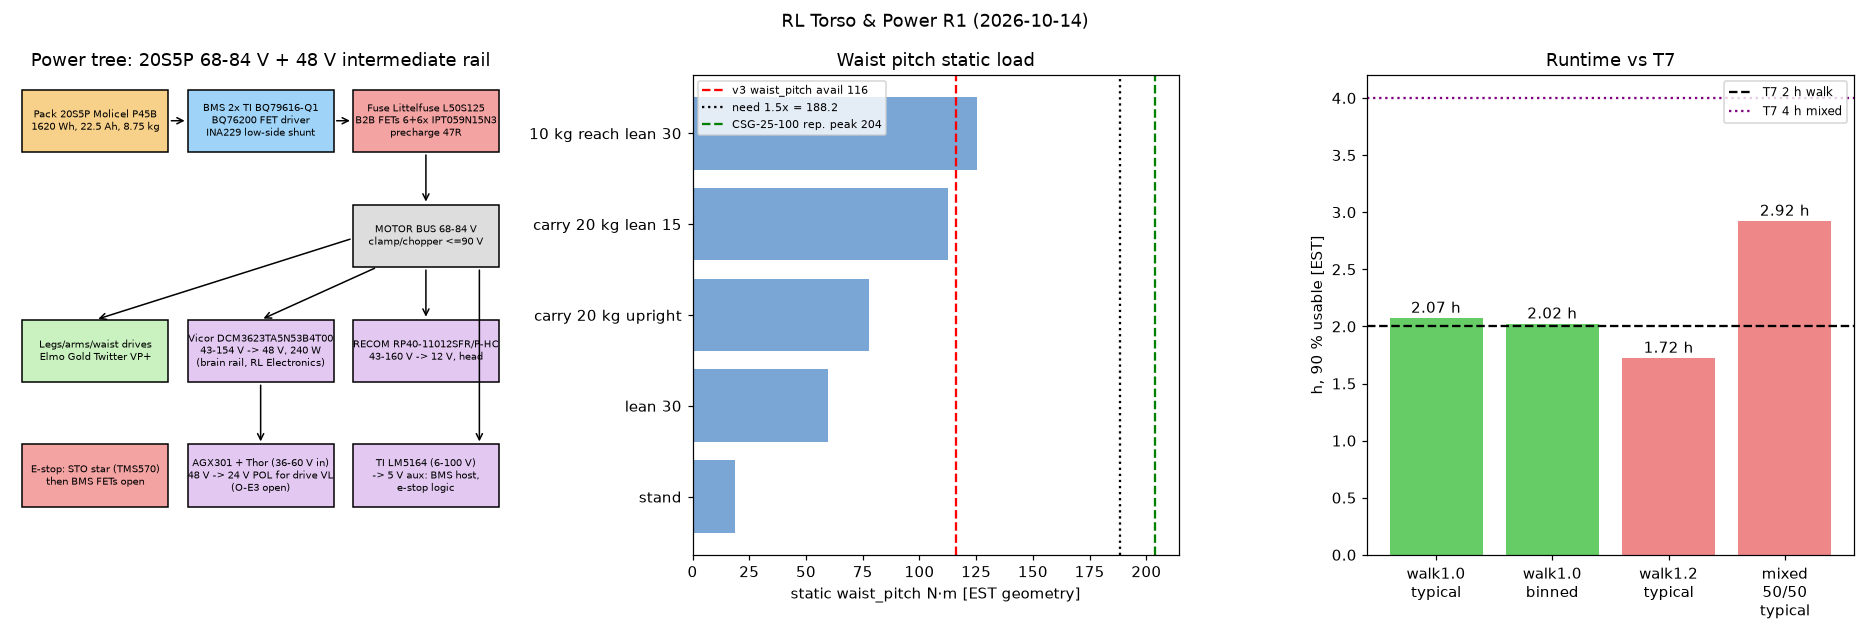
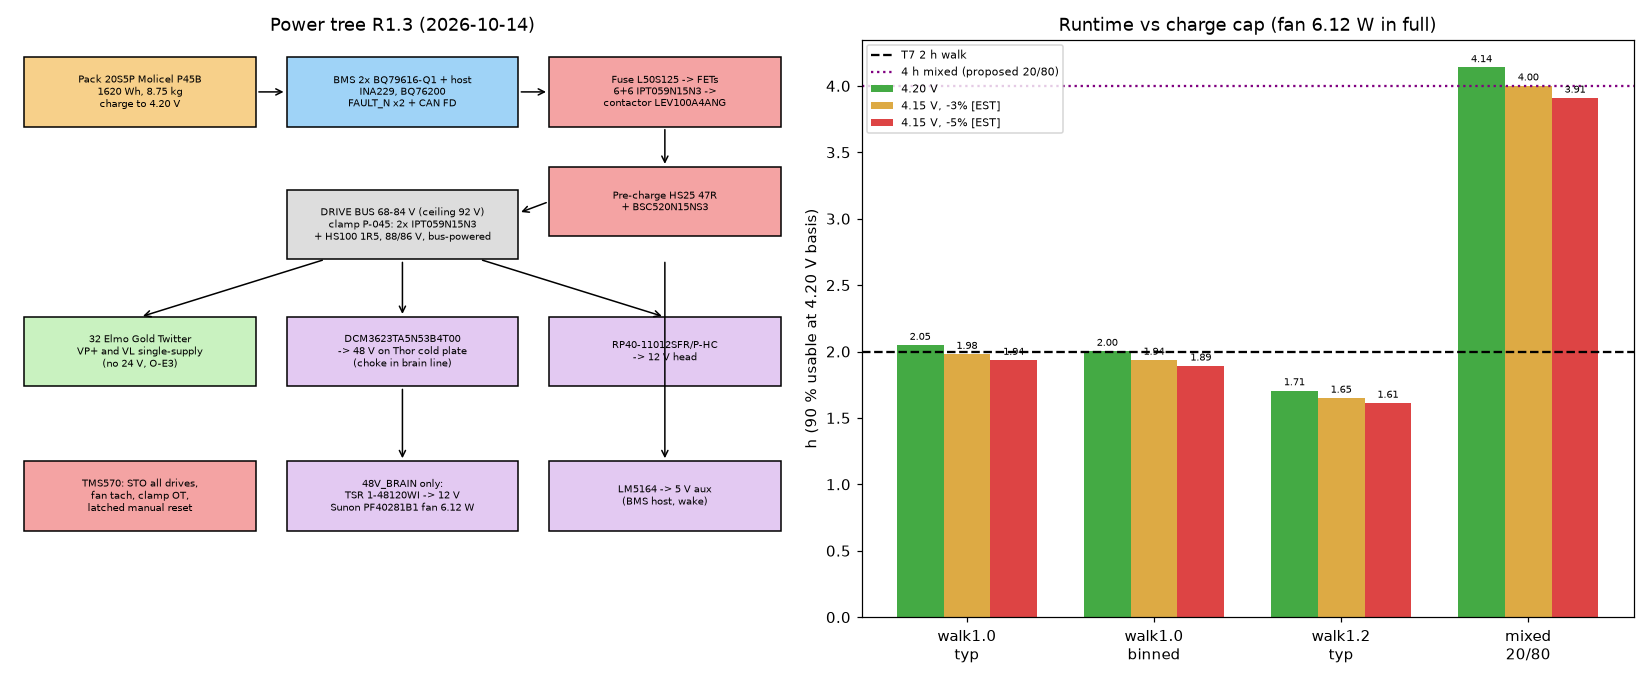
RL Torso & Power R1.3: HS100 clamp pulse check (OPEN, fallback 2x HS100 0R75), 4.15 V cap breaks T7 -> charge 4.20 V, HS25 pre-charge option, O-T9 accepted, BMS message gaps, torso line 5.024 kg (+0.624 vs 4.40, R-034 cap 0.80) + updated image

diff --git a/modules/torso/r13_torso.py b/modules/torso/r13_torso.py
@@ -1,0 +1,52 @@
+"""R1.3: charge-cap runtime, clamp pulse check, mass line, updated figure -> r13_torso.json, R1_torso_power.png"""
+import json, math
+import matplotlib; matplotlib.use("Agg"); import matplotlib.pyplot as plt
+Wt, Wb, use = 1620, 1584, 0.90
+P_walk, P_walk12, P_stand = 711.8, 846.0+8.4, 262.4    # R1.2 §13.5 (fan 6.12 W in full, R-032)
+def rt(Wh, frac, P): return round(Wh*frac/P, 3)
+res = {}
+for cap, loss in [("4.20 V", 0.0), ("4.15 V, -3% [EST]", 0.03), ("4.15 V, -5% [EST]", 0.05)]:
+    f = use - loss
+    res[cap] = {"usable typ Wh": round(Wt*f), "usable binned Wh": round(Wb*f),
+                "walk1.0 typ h": rt(Wt, f, P_walk), "walk1.0 binned h": rt(Wb, f, P_walk),
+                "walk1.2 typ h": rt(Wt, f, P_walk12),
+                "mixed 20/80 typ h": rt(Wt, f, 0.2*P_walk+0.8*P_stand),
+                "binned 2 h pass line W": round(Wb*f/2, 1), "binned walk margin W": round(Wb*f/2 - P_walk, 1)}
+# clamp pulse check (Arcol Heatsink Range Tech Info TI004/TI008: 10x/1 s, 5x/5 s, 2x/3 min; HS100 76.7 J/K 90 g; HS50 19.78 J/K 25 g)
+P, t = 88**2/1.5, 400/(88**2/1.5)
+k = math.log(10/5)/math.log(5)   # power-law slope through the two short tabulated points
+clamp = {}
+for n, W, C, g in [("HS100 1R5", 100, 76.7, 90), ("HS50 1R5", 50, 19.78, 25), ("2x HS100 0R75 series", 200, 153.4, 180)]:
+    mult = P/W; pl = 10*(1/t)**k; ad = 10*1/t
+    clamp[n] = dict(multiple=round(mult,1), allowed_powerlaw=round(pl,1), allowed_const_energy=round(ad,1),
+                    dT_adiabatic_K=round(400/C,1), g=g, verdict="PASS" if mult<=pl else ("OPEN (between bounds)" if mult<=ad else "FAIL"))
+mass = {"structure+pelvis+distribution (R1)": 4.305, "shoulder bulkhead 12 mm (§9)": 0.150, "P-030/P-044 duct fans booking": 0.040,
+        "duct partition/walls + TSR (§13.4)": 0.147, "P-045 clamp (HS100 + FETs/board)": 0.145,
+        "contactor LEV100 [EST 0.20] + HS25 47R 0.0125 + BSC520 + driver 0.003": 0.216}
+tot = round(sum(mass.values()), 3)
+out = dict(runtime=res, clamp_pulse=dict(P_W=round(P), t_ms=round(t*1000,1), parts=clamp), mass=mass, torso_total=tot, vs_alloc=round(tot-4.40,3))
+json.dump(out, open("r13_torso.json","w"), indent=1); print(json.dumps(out, indent=1))
+fig, ax = plt.subplots(1, 2, figsize=(15, 6.2)); a = ax[0]; a.axis("off"); a.set_xlim(0,1); a.set_ylim(0,1)
+a.set_title("Power tree R1.3 (2026-10-14)")
+def box(x,y,t,c): a.add_patch(plt.Rectangle((x,y),.30,.12,fc=c,ec="k")); a.text(x+.15,y+.06,t,ha="center",va="center",fontsize=6.3)
+box(.01,.85,"Pack 20S5P Molicel P45B\n1620 Wh, 8.75 kg\ncharge to 4.20 V","#f7d08a")
+box(.35,.85,"BMS 2x BQ79616-Q1 + host\nINA229, BQ76200\nFAULT_N x2 + CAN FD","#9fd3f7")
+box(.69,.85,"Fuse L50S125 -> FETs\n6+6 IPT059N15N3 ->\ncontactor LEV100A4ANG","#f4a3a3")
+box(.69,.66,"Pre-charge HS25 47R\n+ BSC520N15NS3","#f4a3a3")
+box(.35,.62,"DRIVE BUS 68-84 V (ceiling 92 V)\nclamp P-045: 2x IPT059N15N3\n+ HS100 1R5, 88/86 V, bus-powered","#ddd")
+box(.01,.40,"32 Elmo Gold Twitter\nVP+ and VL single-supply\n(no 24 V, O-E3)","#c9f2c0")
+box(.35,.40,"DCM3623TA5N53B4T00\n-> 48 V on Thor cold plate\n(choke in brain line)","#e3c9f2")
+box(.69,.40,"RP40-11012SFR/P-HC\n-> 12 V head","#e3c9f2")
+box(.35,.15,"48V_BRAIN only:\nTSR 1-48120WI -> 12 V\nSunon PF40281B1 fan 6.12 W","#e3c9f2")
+box(.69,.15,"LM5164 -> 5 V aux\n(BMS host, wake)","#e3c9f2")
+box(.01,.15,"TMS570: STO all drives,\nfan tach, clamp OT,\nlatched manual reset","#f4a3a3")
+for x1,y1,x2,y2 in [(.31,.91,.35,.91),(.65,.91,.69,.91),(.84,.85,.84,.78),(.69,.72,.65,.70),(.40,.62,.16,.52),(.50,.62,.50,.52),(.60,.62,.84,.52),(.50,.40,.50,.27),(.84,.62,.84,.27)]:
+    a.annotate("",xy=(x2,y2),xytext=(x1,y1),arrowprops=dict(arrowstyle="->"))
+b = ax[1]; labs = ["walk1.0\ntyp","walk1.0\nbinned","walk1.2\ntyp","mixed\n20/80"]
+keys = ["walk1.0 typ h","walk1.0 binned h","walk1.2 typ h","mixed 20/80 typ h"]; w = .25
+for i,(cap,col) in enumerate(zip(res,["#4a4","#da4","#d44"])):
+    v=[res[cap][k] for k in keys]; b.bar([j+(i-1)*w for j in range(4)], v, w, label=cap, color=col)
+    for j,y in enumerate(v): b.text(j+(i-1)*w, y+.04, f"{y:.2f}", ha="center", fontsize=6.5)
+b.set_xticks(range(4)); b.set_xticklabels(labs); b.axhline(2,color="k",ls="--",label="T7 2 h walk"); b.axhline(4,color="purple",ls=":",label="4 h mixed (proposed 20/80)")
+b.set_ylabel("h (90 % usable at 4.20 V basis)"); b.set_title("Runtime vs charge cap (fan 6.12 W in full)"); b.legend(fontsize=7)
+fig.tight_layout(); fig.savefig("R1_torso_power.png", dpi=110)

diff --git a/modules/torso/R1_ARCHITECTURE.md b/modules/torso/R1_ARCHITECTURE.md
@@ -134,6 +134,62 @@ Risk: walking binned runtime sits on the pass line. If the Arbiter books the 6.1
 | **torso line** | **5.387** (contactor kept, §13.2) |
 | battery | 8.750 |
 
+## 15. R1.3 (after Electronics §13 a095c0c, R-032, R-033 73d1984, R-034). Script `r13_torso.py` → `r13_torso.json`; figure updated.
+### 15.1 P-045 clamp: HS100 1R5 F (R-033 booked 0.15 kg), bolted to the shoulder bulkhead, exhaust side
+Source: Arcol "Heatsink Range Technical Information" (TI004 overload, TI008 thermal capacity) https://assets.rs-online.com/v1698974646/Datasheets/840dcab3450261b61b91e3aa6789a31d.pdf . Tabulated points: 10× rating for 1 s, 5× for 5 s, 2× for 3 min; HS100 thermal capacity 76.7 J/°C, unit 90 g; HS50 19.78 J/°C, 25 g. The curve itself is a graph with no points below 1 s.
+Pulse: 88²/1.5 = 5.16 kW for 77.5 ms (400 J).
+| part | multiple of rating | allowed: power-law through 1 s/5 s points | allowed: constant energy (1 kJ) | ΔT adiabatic | verdict |
+|---|---|---|---|---|---|
+| HS100 1R5 | 51.6× | 30.1× | 129× | 5.2 K | **OPEN**: inside the energy bound, outside the conservative extrapolation |
+| HS50 1R5 | 103× | 30.1× | 129× | 20 K | OPEN, closer to the limit. **Not a fallback** without written Arcol data |
+| 2 × HS100 0R75 in series | 25.8× | 30.1× | 129× | 2.6 K | PASS on both bounds, +0.09 kg |
+**O-T8 (updated):** comparator, gate driver and thermal cutout still to cite; HS100 stays booked. Ask Arcol for the < 1 s overload point. If it is below 52×, use 2 × HS100 0R75 (+0.09 kg, still inside R-034; see §15.6).
+### 15.2 Charge rule: 4.15 V cap quantified. **Recommendation: do not cap.**
+The P45B datasheet capacity between 4.15 and 4.20 V is not read; 3–5 % [EST] is typical for NMC/NCA 21700 cells.
+| charge limit | usable Wh typ / binned | walk 1.0 typ / binned h | walk 1.2 h | mixed 20/80 h | binned 2 h margin |
+|---|---|---|---|---|---|
+| 4.20 V (current) | 1458 / 1426 | 2.05 / **2.00** | 1.71 | 4.14 | **+1.0 W** (pass line 712.8 W vs 711.8 W) |
+| 4.15 V, −3 % | 1409 / 1378 | 1.98 / 1.94 | 1.65 | 4.00 | **−22.8 W: T7 FAILS** |
+| 4.15 V, −5 % | 1377 / 1346 | 1.94 / 1.89 | 1.61 | 3.91 | **−38.6 W: T7 FAILS** |
+A 4.15 V cap costs 49–81 Wh and 0.07–0.11 h of walking, which breaks T7 hard. Alternative rule: charge to 4.20 V at the dock, and have the BMS accept regen pulses at any SOC, with the cell OV trip set above 4.20 V (e.g. 4.25 V [EST, Molicel confirmation needed]). At 711.8 W the pack leaves the top 4 % in about 5 min, and the clamp covers the rest. Case (b) of Electronics §13.1 then lasts only minutes at < 40 W average.
+### 15.3 Pre-charge (R-033 approved HS50 47R; lighter option, optional)
+Bus capacitance: 32 drives × 990–1400 µF (Elmo §10.2.4.2 rule, O-E10) = 32–45 mF → ½CV² at 84 V = **113–159 J per pre-charge**. That rules out SMD thick-film pulse parts, and linear pre-charge through the IPT059N15N3 (SOA at 80 V without evidence). The BQ76200 pre-charge output only drives a switch; it still needs a resistor.
+**Option: Arcol HS25 47R** (same TI008 table: 10.7 J/°C, 12.5 g) → 159 J gives 15 K. Peak 1.8 A, 150 W = 6× for < 1 s, inside the 10×/1 s point. τ = 47 Ω × 45 mF = 2.1 s, ~10 s to 99 %. **Saves 12.5 g vs the HS50.** Switch is still the BSC520N15NS3 G. Booked mass stays R-033's 0.232 until Arbiter accepts the swap.
+### 15.4 O-T9: Electronics' scheme accepted
+Hardwired dual-channel FAULT_N plus a CAN FD fault frame go to the TMS570. The TMS570 applies STO (Cat 0) to all drives. The BQ76200 FETs open at the same time; the contactor opens once current is < 5 A. The clamp comparator and gate supply are powered from the **drive-side** bus. The fault latches: restart needs fault clear, then manual reset, then pre-charge, then contactor close. Normal faults keep SS1 → STO → open. **G5 test:** open the pack at peak regen; the bus must peak ≤ 90 V without reaching the drive OV trip.
+### 15.5 Records
+- **O-T10 PASS** on the datasheet P-Q curve (≈ 24 CFM at ≈ 20 Pa, ΔT ≈ 10 K); the fan is booked at 6.12 W in full (R-032).
+- DCM3623TA5N53B4T00 sits on the Thor cold plate. The 47718-232 choke goes in the brain line (`dcm_filter_heatsink`), not Torso.
+- **O-E3:** no 24 V supply. Drives run VL single-supply from VP+ ("S" variant, confirm at order).
+- **TSR 1-48120WI goes on the 48V_BRAIN net only** (17–72 V in); it must never connect to the pack bus.
+- **BMS → TMS570 message set (Electronics §13.7) vs part capabilities:**
+  | message | supported by | gap |
+  |---|---|---|
+  | FAULT_N dual channel | BQ79616 NFAULT (one hardware line) | **2nd independent channel missing.** Add an independent secondary cell OV/UV/OT protector or a host-MCU channel with its own measurement (part TBD) |
+  | BMS_PACK V/I/SOC/SOH/limits | V from BQ79616; I from INA229; SOC/SOH/limits computed by host | host MCU still unpicked (§4) |
+  | BMS_STATUS FET/contactor feedback | BQ76200 has no drain-source / failed-short diagnostics; LEV100A4ANG has no auxiliary contact | **add a drive-side bus voltage sense** to the host ADC (detects welded contactor and shorted FET via pack-vs-bus voltage after an open command) |
+  | BMS_CELLS_SUMMARY | BQ79616 cell V and temperature | none |
+  | "internal short" in FAULT_N | not directly measurable | soft detection only (self-discharge/imbalance trend); move it to BMS_WARN |
+  | heartbeat / SAFE_CMD / E2E CRC | host firmware | none (host) |
+### 15.6 Torso mass line and R-034 overrun request
+| item | kg | basis |
+|---|---|---|
+| torso CFRP shell 2 mm | 1.705 | [EST] area × density |
+| shoulder bulkhead 7075 (12 mm, §9) | 0.600 | [EST] (0.45 + 0.15) |
+| waist ring 7075 | 0.250 | [EST] |
+| pack rails + latch | 0.200 | [EST] |
+| pelvis 7075 | 1.450 | [EST] |
+| power distribution board, busbars, branch fuses, 5 V aux | 0.250 | [EST] |
+| duct fans booking (P-030/P-044) | 0.040 | R-030/R-032 |
+| duct partition, walls, TSR 1-48120WI | 0.147 | §13.4 |
+| regen clamp P-045 (HS100 1R5 + FETs/board) | 0.150 | R-033 |
+| pack disconnect: LEV100A4ANG + HS50 47R + BSC520N15NS3 | 0.232 | R-033 (contactor datasheet mass to cite before G1) |
+| **total** | **5.024** | |
+| allocation (pelvis 1.6 + torso 2.8) | 4.400 | CONTRACTS §3 |
+| **net overrun** | **+0.624** | ≤ 0.80 (R-034), margin 0.176 |
+The earlier ~0.99 kg figure assumed the HS200 clamp (0.475 + board); the HS100 recovers 0.33 kg. Optional: HS25 pre-charge −0.0125 → +0.612. If Arcol rejects the HS100 pulse, 2 × HS100 0R75 → +0.714, still ≤ 0.80.
+**Request to Arbiter (R-034):** "RL Torso & Power requests booking the torso line at 5.024 kg, +0.624 kg net over the 4.40 kg allocation (cap 0.80, margin 0.176). Drivers: regen clamp P-045 0.150 and pack disconnect 0.232, both required for safety (R-033); A41 duct and partition 0.187 (R-030/R-032); shoulder bulkhead +0.150 for side-fall SF 2.1 (§9). Structure itself is 0.095 under allocation. All structure masses are [EST] until CAD. The contactor mass is to be cited before G1."
+
 ## 7. Open questions / conflicts (not edited in others' files)
 - **O-T1 (Electronics, coordination):** adopt the 48 V intermediate rail with DCM3623TA5N53B4T00; Torso hosts the DCM on the power distribution board or the brain tray? Mass 0.024 [UNVERIFIED for variant] stays in the brain line; who books the 47718-232 choke; 24 V VL source (O-E3); BMS→safety MCU CAN FD message set; e-stop = FET-open vs contactor (O-E6).
 - **O-T2 (Actuators/Arbiter):** waist_pitch 116 N·m < 188 N·m need with T5 payload → TBM2G-08508A, +0.19 kg.

diff --git a/media/progress/LOG.md b/media/progress/LOG.md
@@ -30,3 +30,4 @@ One line per image: date, file, module, what changed.
 - 2026-10-14 `2026-10-14_design_v5_polish_concept.png` (Robot Lab, V5 polish plan). Left: v4 render. Right: 2D front/side concept of Optimus Gen 3-style cover shells: gold CF thigh/torso/pelvis, matte-black shin fairings, flexible hip skirt and waist bellows, integrated visor head. The mechanisms are unchanged and the shells are [EST] envelopes. Plan: modules/design/V5_POLISH_PLAN.md. Generated by `modules/design/render_v5_concept.py`.
 - 2026-10-14 arms R1: first arms/hands architecture (sim/v3 arm loads, joint need vs selection, layout) — 2026-10-14_arms_R1_layout_torque.png (modules/arms/R1_ARCHITECTURE.md)
 - 2026-10-14 RL Torso & Power R1: power tree (20S5P + 48 V brain rail DCM3623TA5N53B4), waist_pitch load vs avail, runtime vs T7 → 2026-10-14_torso_R1_power.png
+- 2026-10-14 RL Torso & Power R1.3: power tree with clamp P-045, contactor, fan rail; runtime vs 4.15 V charge cap → 2026-10-14_torso_R1-3_power.png
